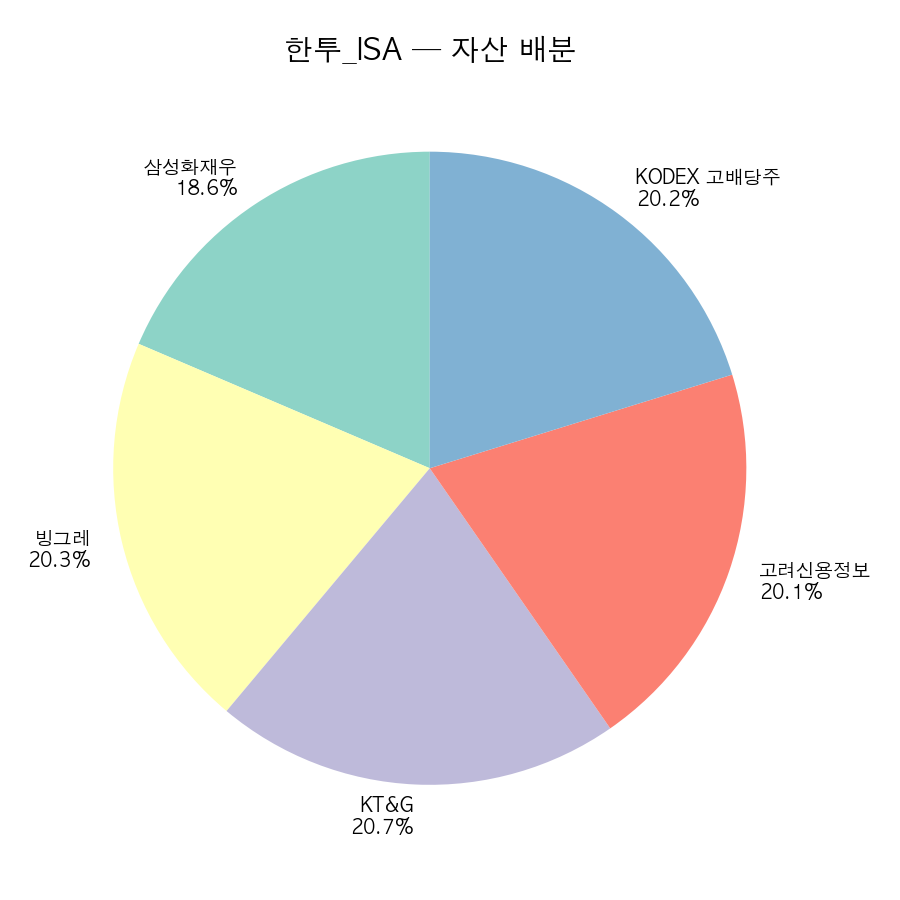
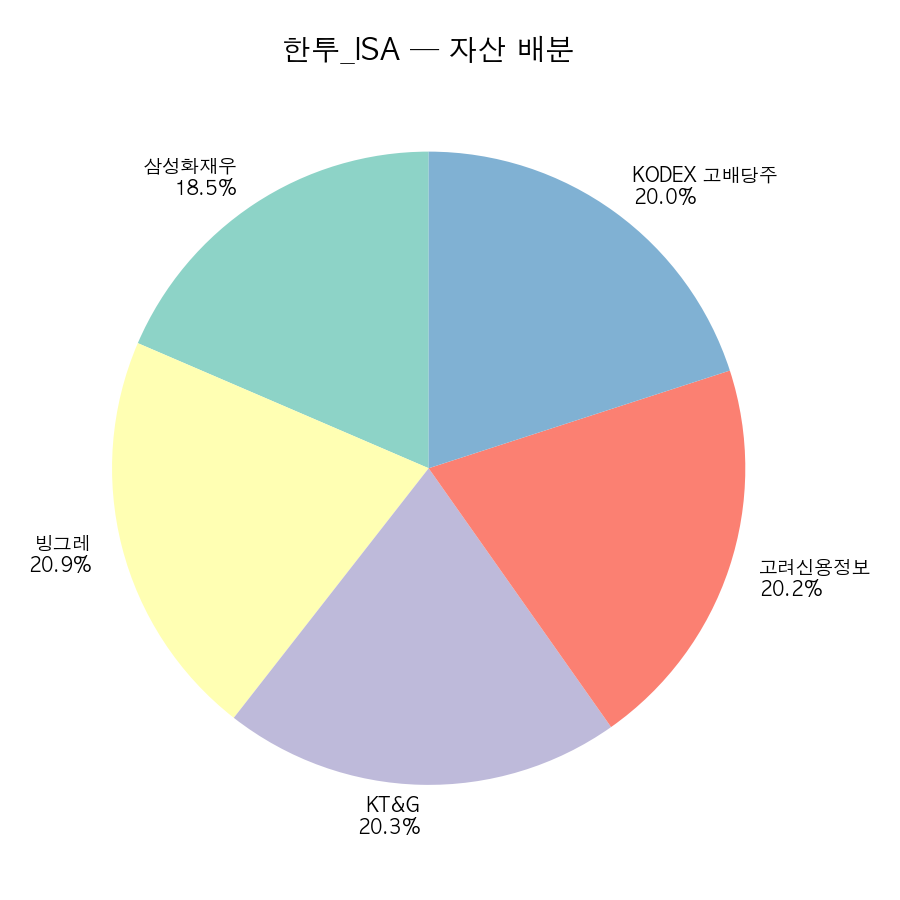
섹션별 주간 리포트 (자동 생성)

diff --git a/_posts/2026-11-13-etf-weekly-week32.md b/_posts/2026-11-13-etf-weekly-week32.md
@@ -1,0 +1,54 @@
+---
+layout: post
+title: "Week 32 — 부모님 연금 ETF 주간 리포트"
+date: 2026-11-13
+categories: [investing, etf]
+tags: [weekly]
+---
+
+> 부모님 연금저축 ETF 실험 — 32주차 기록.
+
+---
+
+## 32주차 성과
+
+### 엄마_연금
+
+> ⚠ 이 계좌 수치는 **2026-11-09** 기준입니다 (4일 전 · 자동 수집이 중단돼 최신이 아님).
+
+| 종목 | 수량 | 평단가 | 종가 | 평가액 | 수익률 |
+|------|------|--------|------|--------|--------|
+| ACE KRX금현물 | 47주 | ₩30,513 | ₩24,965 | ₩1,173,355 | -18.2% |
+| KODEX 미국S&P500 | 43주 | ₩23,192 | ₩22,570 | ₩970,510 | -2.7% |
+| RISE 200 | 12주 | ₩86,453 | ₩79,825 | ₩957,900 | -7.7% |
+| KODEX 고배당주 | 36주 | ₩16,552 | ₩16,030 | ₩577,080 | -3.1% |
+| KODEX 인도Nifty50 | 44주 | ₩12,372 | ₩12,075 | ₩531,300 | -2.4% |
+| TIGER Fn신재생에너지 | 31주 | ₩27,199 | ₩16,020 | ₩496,620 | -41.1% |
+
+**투자 ₩5,452,207 → 평가 ₩4,706,765 | -745,442원 (-13.7%)**
+
+예수금: ₩1,252,374
+---
+
+### 아빠_연금
+
+> ⚠ 이 계좌 수치는 **2026-11-09** 기준입니다 (4일 전 · 자동 수집이 중단돼 최신이 아님).
+
+| 종목 | 수량 | 평단가 | 종가 | 평가액 | 수익률 |
+|------|------|--------|------|--------|--------|
+| ACE KRX금현물 | 47주 | ₩30,514 | ₩24,970 | ₩1,173,590 | -18.2% |
+| KODEX 미국S&P500 | 43주 | ₩23,191 | ₩22,570 | ₩970,510 | -2.7% |
+| RISE 200 | 12주 | ₩86,489 | ₩79,900 | ₩958,800 | -7.6% |
+| TIGER 미국배당다우존스 | 40주 | ₩14,554 | ₩15,225 | ₩609,000 | +4.6% |
+| KODEX 인도Nifty50 | 44주 | ₩12,379 | ₩12,075 | ₩531,300 | -2.5% |
+| TIGER Fn신재생에너지 | 31주 | ₩27,193 | ₩16,020 | ₩496,620 | -41.1% |
+| PLUS 고배당주 | 1주 | ₩25,370 | ₩21,850 | ₩21,850 | -13.9% |
+
+**투자 ₩5,464,407 → 평가 ₩4,761,670 | -702,737원 (-12.9%)**
+
+예수금: ₩649,580
+
+
+---
+
+*데이터: 한국투자증권 KIS Open API / 2026-11-09 장 마감 기준 (수집 지연으로 발행일과 다름)*

diff --git a/_posts/2026-11-13-dividend-weekly-week32.md b/_posts/2026-11-13-dividend-weekly-week32.md
@@ -1,0 +1,34 @@
+---
+layout: post
+title: "Week 32 — ISA 배당 포트 주간 리포트"
+date: 2026-11-13
+categories: [investing, dividend]
+tags: [weekly]
+---
+
+> ISA 배당 포트폴리오 — 32주차 기록.
+
+---
+
+## 32주차 성과
+
+### 한투_ISA
+
+> ⚠ 이 계좌 수치는 **2026-11-09** 기준입니다 (4일 전 · 자동 수집이 중단돼 최신이 아님).
+
+| 종목 | 수량 | 평단가 | 종가 | 평가액 | 수익률 |
+|------|------|--------|------|--------|--------|
+| 빙그레 | 25주 | ₩73,915 | ₩84,400 | ₩2,110,000 | +14.2% |
+| KT&G | 11주 | ₩168,800 | ₩186,400 | ₩2,050,400 | +10.4% |
+| 고려신용정보 | 230주 | ₩9,943 | ₩8,870 | ₩2,040,100 | -10.8% |
+| KODEX 고배당주 | 126주 | ₩17,781 | ₩16,020 | ₩2,018,520 | -9.9% |
+| 삼성화재우 | 5주 | ₩378,520 | ₩374,000 | ₩1,870,000 | -1.2% |
+
+**투자 ₩10,124,583 → 평가 ₩10,089,020 | -35,563원 (-0.4%)**
+
+예수금: ₩59,307
+
+
+---
+
+*데이터: 한국투자증권 KIS Open API / 2026-11-09 장 마감 기준 (수집 지연으로 발행일과 다름)*
